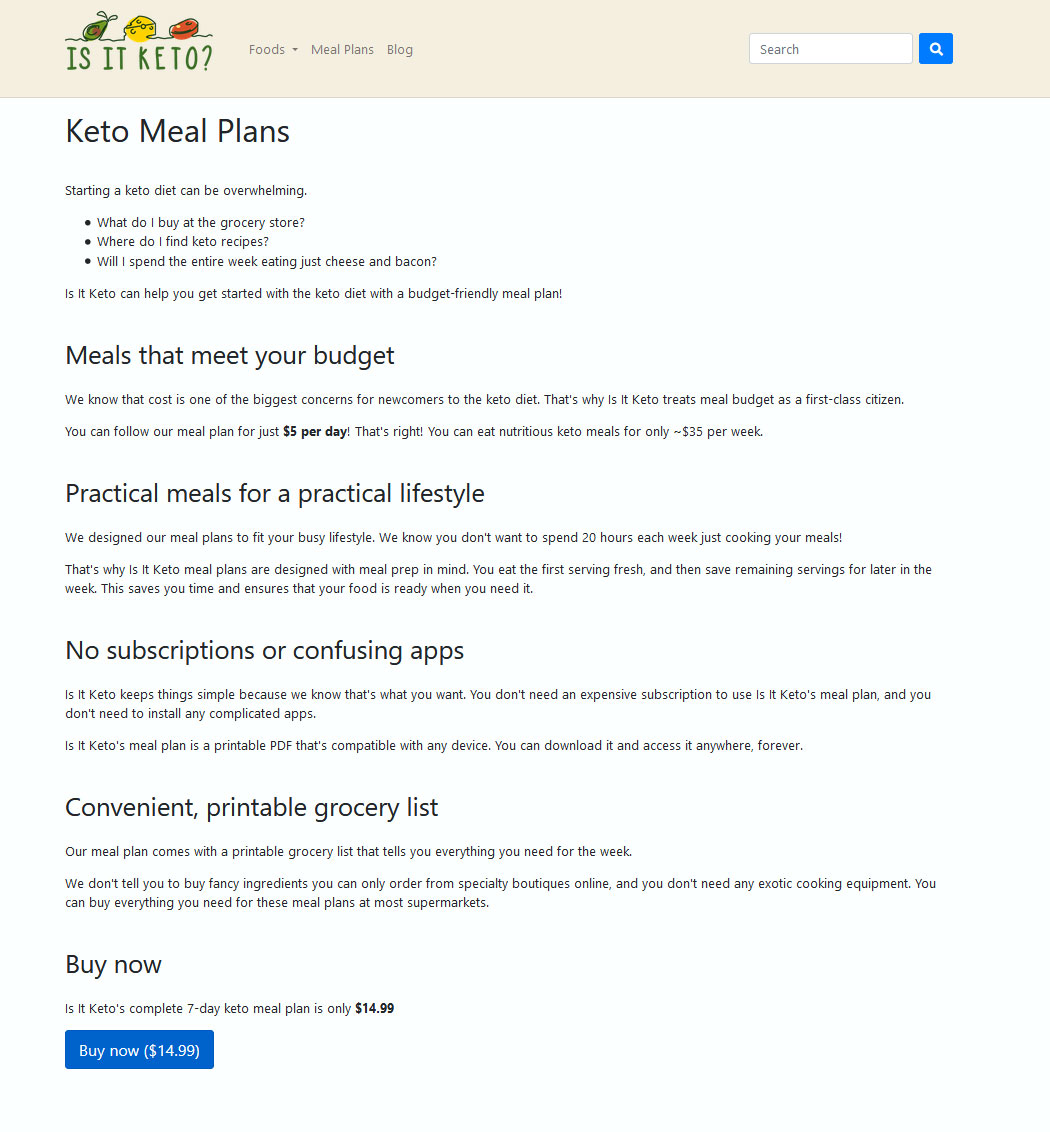
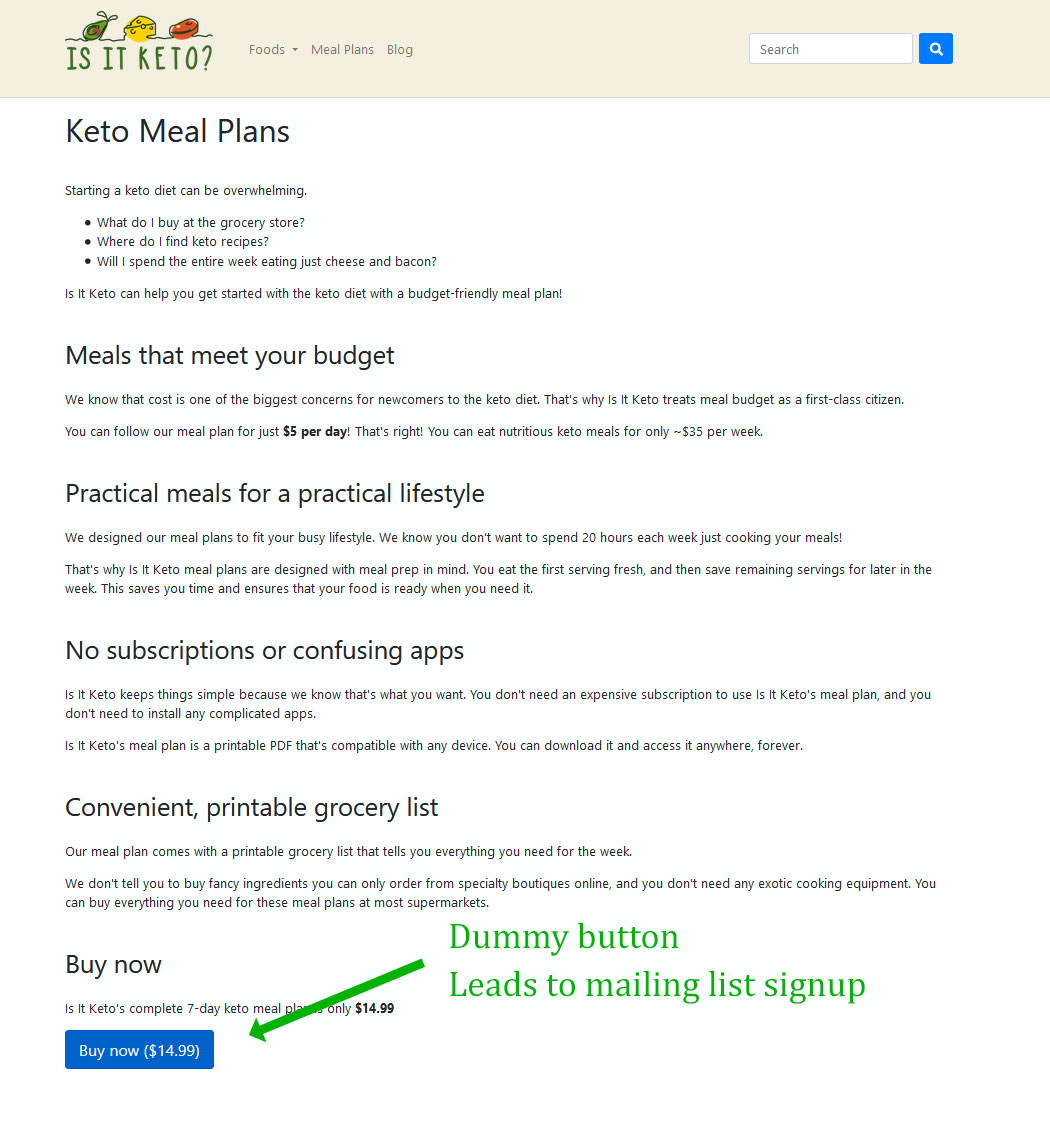
Updating

diff --git a/_retrospectives/2019-11-05-isitketo-month-10.md b/_retrospectives/2019-11-05-isitketo-month-10.md
@@ -1,14 +1,19 @@
 ---
 title: Is It Keto - Month 10
+excerpt: Quickly made my first sale, then struggled to make more.
+header:
+  og_image: /images/retrospectives/2019/11/first-payment.jpg
 ---
 
 ## One-Line Summary
 
-Selling meal plans is harder than I expected.
+Quickly made my first sale, then struggled to make more.
 
 ## Highlights
 
-* I sold my first meal plan on Is It Keto.
+* I sold my first meal plan on [Is It Keto](https://isitketo.org).
+* I then tried five different experiments for increasing sales.
+* Is It Keto's revenue dropped for the month as I redirected resources toward its failing meal plans.
 
 ## Goal Grades
 
@@ -19,17 +24,21 @@ At the start of each month, I [declare what I'd like to accomplish](/retrospecti
 * **Result**: Earned only $23.87 from keto meal plan sales.
 * **Grade**: D+
 
+It turns out it's really hard to get people to spend money on things that other sites give away for free. Despite my best efforts, I only managed to sell two meal plans, far lower than the volume I expected.
+
 ### Add five new articles to Is It Keto
 
 * **Result**: Added four new articles to Is It Keto.
 * **Grade**: B-
 
-
+I was a bit overambitious in how quickly I could ramp up the site's new writer, but we came close to the target.
 
 ### Appear on a podcast aimed at freelancers or entrepreneurs to talk about my writing guide
 
 * **Result**: Reached out to four podcasts, got rejections or non-responses from all of them.
 * **Grade**: F
+
+It still feels unfortunate that I can't connect my [guide to hiring writers](/hiring-content-writers/) with an audience. Even fairly small, niche podcasts for freelance writers weren't interested in talking to me about it.
 
 ## Stats
 
@@ -49,7 +58,7 @@ At the start of each month, I [declare what I'd like to accomplish](/retrospecti
 Revenues are way down from my [August peak](/retrospectives/2019/09/#is-it-keto) of $389. Specifically, the loss comes from reductions in AdSense earnings, which I believe have two causes:
 
 * I reduced the sizes of my ads, as the previous sizes were overwhelming the page ([before](https://imgur.com/oAeqEDB) vs. [after](https://imgur.com/O3VPlM1)).
-* I replaced some of my AdSense ads with self-ads for Is It Keto paid meal plans.
+* I replaced some of my AdSense ads with [self-ads](#i-added-self-ads) for Is It Keto paid meal plans.
 
 I knew I'd lose AdSense revenue by dialing down its ads, but I hoped to make up the loss in increased revenues from selling meal plans. Unfortunately, meal plan sales failed to offset those losses.
 
@@ -63,61 +72,134 @@ Traffic stats are slumping, too. I think this is partially due to waning interes
 
 Zestful is quietly chugging along in the background. The server costs me $7.50/month, so I'm actually running at a small loss.
 
-Despite the seemingly flat numbers, Zestful is growing. I have more customers making regular API calls than ever before. The stats above are a month behind because my payment processor is bad at showing accrued revenue. Based on rough data, I expect a 5-10x jump in revenue for November. I've also added better logging so that, in the future, I can track my earnings in real time rather than waiting around for my API gateway to report it a month later.
+Despite the seemingly flat numbers, Zestful is growing. I have more customers making regular API calls than ever before. The stats above are a month behind because my payment processor is bad at showing accrued revenue.
+
+Based on rough data, I expect a 5-10x jump in revenue for November. I've also added better logging so that, in the future, I can track my earnings in real time rather than waiting around for my API gateway to report it a month later.
 
 ## My many attempts to sell meal plans
+
+I spent most of October creating and selling keto meal plans on my content website, Is It Keto. After a quick first sale, I struggled to find new customers willing to purchase these plans.
+
+The sections below detail the various experiments I ran in attempts to jumpstart sales.
 
 ### The boring stuff
 
 About half of the effort in putting up the meal plans for sale was just a matter of the boring adminstrative work to make it happen:
 
-* Drafting a royalty agreement and collecting e-signatures from my meal plan author partner
-* Setting up payment processing on Stripe
-* Proofreading, reformatting, and branding the meal plans to match Is It Keto's existing style conventions
+* Draftedg a royalty agreement and collecting e-signatures from my meal plan author partner
+* Set up payment processing on Stripe
+* Proofread, reformatted, and added branding to the meal plans to match Is It Keto's existing style conventions
 
-### Smoke test
+### I ran a smoke test
 
 Before I had any meal plans to sell, I ran a "smoke test." I put up a page that advertised original keto meal plans and put a "Buy Now" button at the bottom of the page:
 
-{% include image.html file="smoke-test.jpg" alt="Screenshot of Is It Keto smoke test" max_width="800px" img_link="true" class="img-border" fig_caption="Meal plan smoke test" %}
+{% include image.html file="smoke-test.jpg" alt="Screenshot of Is It Keto smoke test" max_width="600px" img_link="true" class="img-border" fig_caption="Meal plan smoke test" %}
 
 It was a very basic page, and it had many obvious weaknesses. I wanted to quickly put something up to see if readers had any interest in it.
 
 During the smoke test, ~4% of users clicked the button that said "Buy Now $14.99," which was encouraging. I recognized that not every user who clicked "Buy Now" would actually pay, but I felt like if 4% were clicking based on such weak sales copy, then maybe I could get to 4% actual sales by sharpening the sales copy a bit.
 
-### Offer actual products
+### I offered an actual product
 
-The meal plan author sent me the first plan on the afternoon of Friday, October 4th. The following Monday, I got the easiest possible Stripe payment flow working and listed the 
+The meal plan author sent me the first plan on the afternoon of Friday, October 4th. The following Monday, I got the easiest possible Stripe payment flow working and listed the meal plan for sale on my site:
 
-{% include image.html file="tex-mex-v1.jpg" alt="Screenshot of first Tex-Mex sales page" max_width="416px" img_link="true" class="img-border" fig_caption="Meal plan smoke test" %}
+{% include image.html file="tex-mex-v1.jpg" alt="Screenshot of first Tex-Mex sales page" max_width="416px" img_link="true" class="img-border" fig_caption="Putting my first meal plan up for sale" %}
 
-Only one customer had signed up for my mailing list.
+Only one customer had signed up for my mailing list, but I emailed her and she purchased within two hours:
 
 {% include image.html file="first-payment.jpg" alt="Screenshot of Stripe payment receipt" max_width="601px" img_link="true" class="img-border" fig_caption="My first Is It Keto meal plan sale" %}
 
-### Self-ads
+I made my first sale within hours of going live! I felt great. At this rate, I'd be earning hundreds of dollars per week.
 
-### Drop prices
+And then... silence. After that first sale, nothing else came in for weeks.
 
-10/15 to 10/15
+### I added self-ads
 
-### Reach out to users on Reddit one-by-one
+Maybe the problem was that too few users realized I was selling meal plans. There was an entry for "Meal Plans" in the navbar, but I wanted to maximize the number of people to visit my meal plan sales page.
 
+To attract more users to the meal plan sales page, I created self-ads to replace the ads I'd been running for Google AdSense:
 
-{% include image.html file="reddit-post.jpg" alt="reddit post asking for meal plan advice" max_width="853px" img_link="true" class="img-border" fig_caption="reddit user asking where to find keto meal plans" %}
+{% assign fig_caption = "I added self-ads for my meal plans to [other Is It Keto pages](https://isitketo.org/gatorade-zero)" | markdownify | remove: "<p>" | remove: "</p>" %}
 
+{% include image.html file="self-ads.jpg" alt="Screenshot of self-ad on Gatorade Zero page" max_width="800px" img_link="true" class="img-border" fig_caption=fig_caption %}
 
-### Offer discounts for feedback
+I tuned these ads to show 60% of the time at first, then I dialed them up to 100% for some weeks to maximize visitors. I couldn't tell if it had any effect on ads because the traffic was bursty before and after:
 
-10/17 to 10/20
+{% include image.html file="self-ads-chart.jpg" alt="Chart showing indeterminate effect of self-ads" max_width="800px" img_link="true" class="img-border" fig_caption="Self-ads may have brought more visitors to the page, but it's too little data to say for sure" %}
 
-### Go back to square one
+### I slashed prices
 
-10/22 to 10/28
+After a week, still no sales. I listed the meal plan for $14.99, which I worried might be too expensive for a 7-day meal plan. With zero sales, it was difficult to gauge what changes to the site would lead to more sales because I basically had zero information.
 
-### Split up sales pages
+I decided to drastically reduce my price from $14.99 to $4.99. This felt too low, but I'd rather get too many sales for too low a price than zero sales and zero information.
 
-10/30 to 11/6
+{% include image.html file="tex-mex-v2.jpg" alt="Screenshot of first Tex-Mex sales page" max_width="416px" img_link="true" class="img-border" fig_caption="Slashing price on meal plan" %}
+
+### I offered discounts for feedback
+
+After two days, there were still no sales even after a 66% price reduction. It was frustrating to not get any information, but I couldn't very well just ask users why they weren't buying.
+
+Or could I?
+
+While discussing the issue with a friend, she asked why I couldn't survey the users. I pointed out that users had no incentive to fill out my survey. Then, I realized I could incentivize them by offering a discount on meal plans.
+
+I couldn't discount the $4.99 price in a meaningful way, so I raised prices back to $9.99 and told users they could buy the meal plans at a 30% discount if they filled out a survey.
+
+It felt like a great idea. I'd get feedback from my users, and they'd feel invested in the meal plans and more likely to make a purchase.
+
+<figure class="half">
+  {% include image.html file="survey1.jpg" alt="Meal plan discount link" img_link="true" max_width="400px" %}
+  {% include image.html file="survey2.jpg" alt="Meal plan discount explanation" img_link="true" max_width="400px" %}
+  <figcaption>Incentivizing users to provide feedback on the meal plans</figcaption>
+</figure>
+
+The link led to this [SurveyMonkey survey](https://www.surveymonkey.com/r/633GTSD).
+
+After about 10 days, only one user filled out a survey. I reached out to them a few hours later to offer them their discounted meal plans, but they never responded or made their purchase.
+
+### I reached out to users on Reddit one-by-one
+
+It seemed like a good time to, ["do things that don't scale."](http://paulgraham.com/ds.html). I began pitching my meal plans to reddit users one-by-one. The [/r/keto](https://reddit.com/r/keto) subreddit is filled with beginners asking keto questions, so it didn't take me long to find several users who had requested help finding keto meal plans in the past week.
+
+To these users, I sent private messages letting them know I offered meal plans on my site and was available for questions:
+
+{% include image.html file="reddit-post.jpg" alt="reddit post asking for meal plan advice" max_width="636px" img_link="true" class="img-border" fig_caption="reddit user asking where to find keto meal plans" %}
+
+{% include image.html file="reddit-invitation.jpg" alt="reddit post asking for meal plan advice" max_width="702px" img_link="true" class="img-border" fig_caption="My outreach message to a reddit user seeking meal plans" %}
+
+I tried this with several users. Some responded to say that it looks perfect for them, but then they didn't follow through with a purchase.
+
+After a few days, I gave up on this technique. I wasn't gaining traction, and checking reddit constantly became too distracting.
+
+### I went back to square one
+
+At this point, I was mystified. How could 4% of users click the "Buy now" button during my smoke test, but now that they actually *could* buy, they weren't purchasing anything?
+
+I could think of two possibilities:
+
+1. The changes I made to my sales copy after the smoke test made users less interested in purchasing.
+1. My original sales copy was so uninformative that users were clicking the "buy" button just to find out more information.
+
+If it was scenario (1), then rolling back to the sales copy I used in my smoke test should result in real sales. I tried doing exactly that:
+
+{% include image.html file="smoke-test2.jpg" alt="Screenshot of Is It Keto smoke test" max_width="600px" img_link="true" class="img-border" fig_caption="Testing the original smoke test to see if 4% of users will still click Buy Now" %}
+
+Less than 24 hours later, I made a second sale! Maybe this sales copy really was somehow much better than my revised version.
+
+But after a week, there was only that one new sale. It was infinitely more than I'd sold under the other page version, but it was also just a single sale, so I couldn't draw many conclusions.
+
+According to my logging, 3.7% of users clicked the "Buy now" button when I brought back the vague copy from the smoke test. This was close enough to the original 4.1% I saw during the smoke test that I feel like the likely conclusion is that users are clicking the "Buy" button only to find out more information.
+
+### I split up my sales pages
+
+After concluding that there was nothing magical about my smoke test, I set about to continue polishing my sales page. My most recent change has been to split up each meal plan into its own page so that I can include more details:
+
+{% assign fig_caption = "Putting each meal plan into its own [individual, more detailed page](https://isitketo.org/meal-plans/tex-mex/)" | markdownify | remove: "<p>" | remove: "</p>" %}
+
+{% include image.html file="tex-mex-v3.jpg" alt="Screenshot of latest Tex-Mex sales page" max_width="800px" img_link="true" class="img-border" fig_caption=fig_caption %}
+
+I made this change on October 31st, but there have still been no new sales after the first two.
 
 ### Experiment summary
 
@@ -132,18 +214,30 @@ Only one customer had signed up for my mailing list.
 
 \* Customer signed up for mailing list and purchased the meal plan when it became available.
 
+## Future ideas
+
+At this point, I'm wondering whether users are willing to pay for meal plans at all. It's possible they are, and I'm just missing something in my strategy.
+
+Here are some additional ideas I have to encourage users to purchase:
+
+* Cook the recipes and add photos of the finished products to the sales pages.
+* Let readers view more sample pages in the meal plans to see what they're buying.
+* Improve the sales copy and page layouts.
+
 ## Wrap up
 
 ### What got done?
 
 * Made my first sale of Is It Keto's [meal plan product](https://isitketo.org/meal-plans/).
   * Drafted a licensing agreement with a third-party meal plan provider.
+  * Tried several experiments to increase sales.
 * Simplified the build process on What Got Done so that anyone can spin up a local instance with [a single command](https://twitter.com/deliberatecoder/status/1189529617947869184).
 * Presented ["Why Good Developers Write Bad Tests" at PyGotham](/retrospectives/pygotham-2019-notes/).
 
 ### Lessons learned
 
-* 
+* Be more skeptical of results from smoke tests.
+  * Even if 4% of users click the "buy" button, the percentage who will actually purchase can be significantly lower.
 
 ### Goals for next month
 
